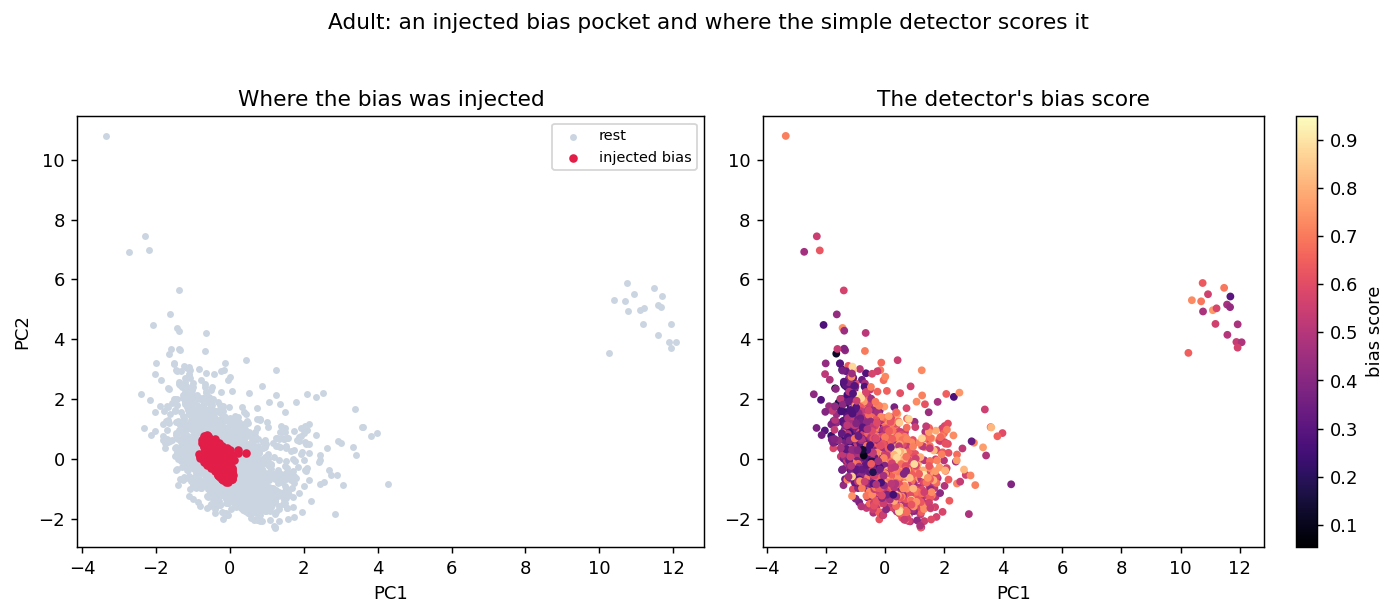
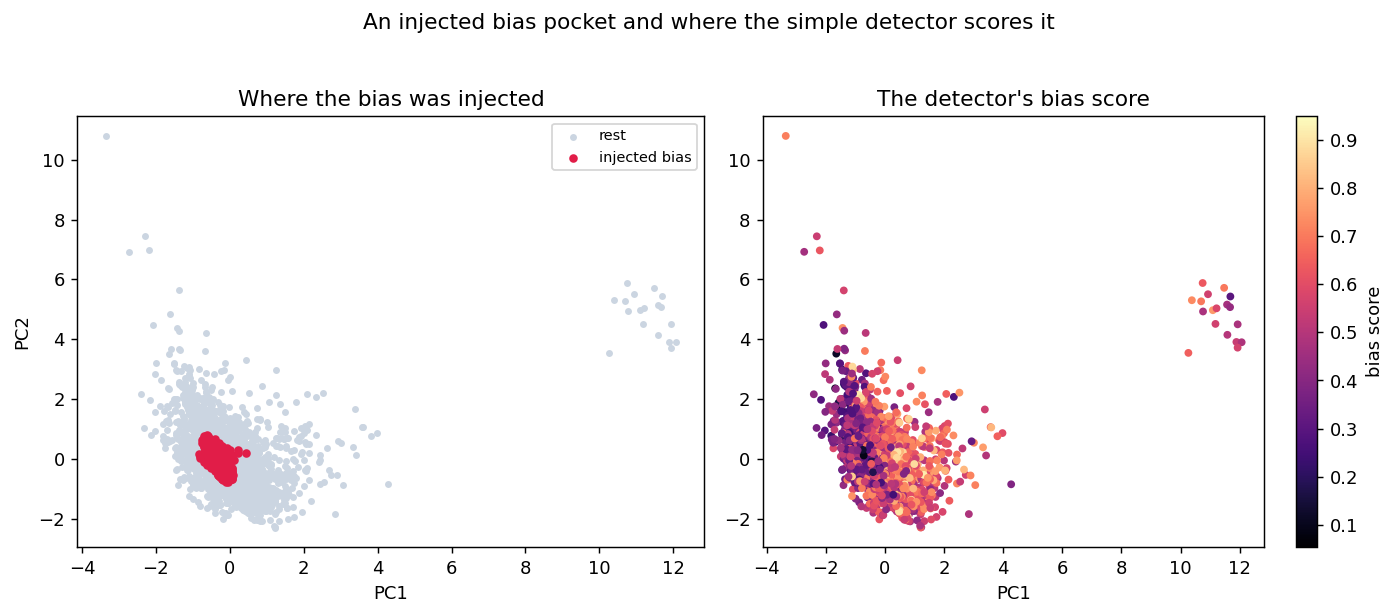
Drop the dataset name from the figure title (the caption already says it)

Changed region(s): [[0.2464, 0.0, 0.7701, 0.0617]]

diff --git a/scripts/make_figures.py b/scripts/make_figures.py
@@ -51,8 +51,7 @@ def bias_map_figure() -> None:
     axes[1].set_title("The detector's bias score")
     axes[1].set_xlabel("PC1")
     fig.colorbar(sc, ax=axes[1], label="bias score")
-    fig.suptitle("Adult: an injected bias pocket and where the simple detector scores it",
-                 y=1.02)
+    fig.suptitle("An injected bias pocket and where the simple detector scores it", y=1.02)
     fig.tight_layout()
     fig.savefig(IMG / "bias_map.png", dpi=130, bbox_inches="tight")
     print("wrote", IMG / "bias_map.png")
